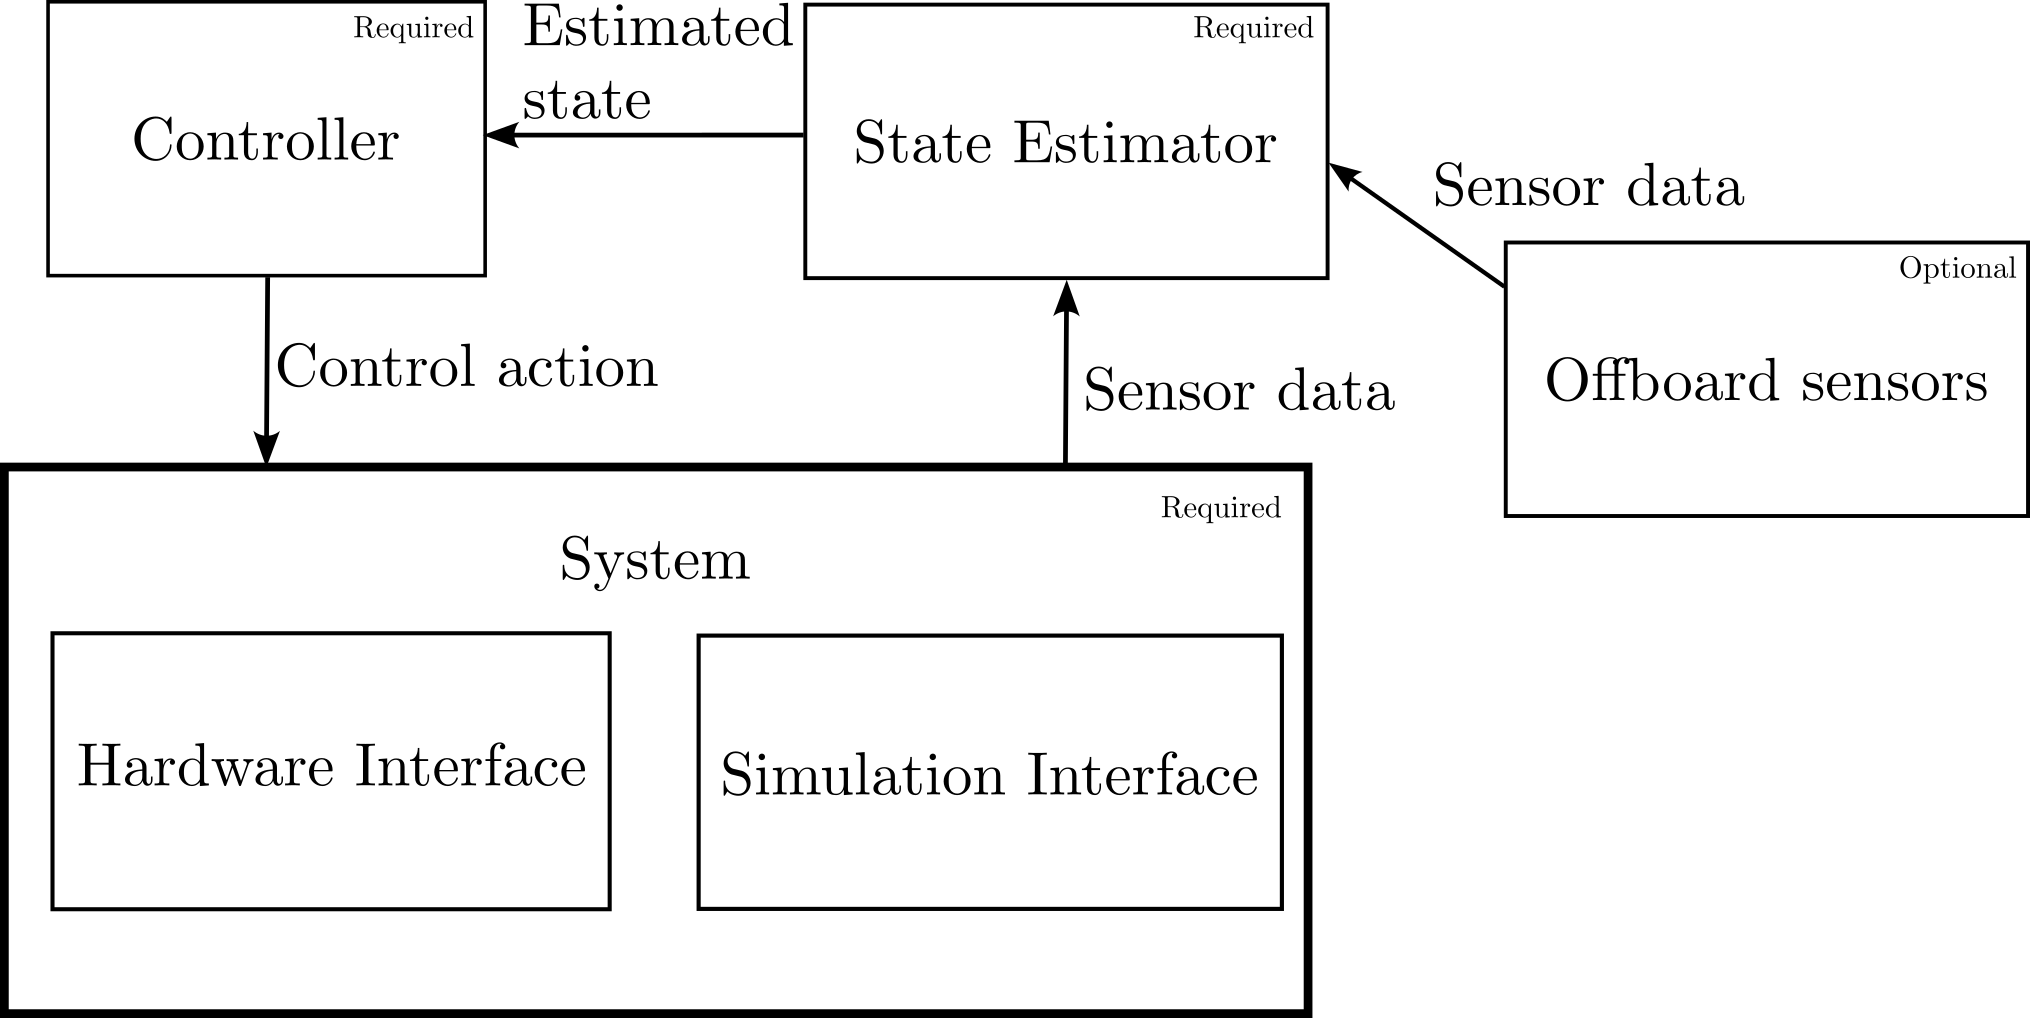
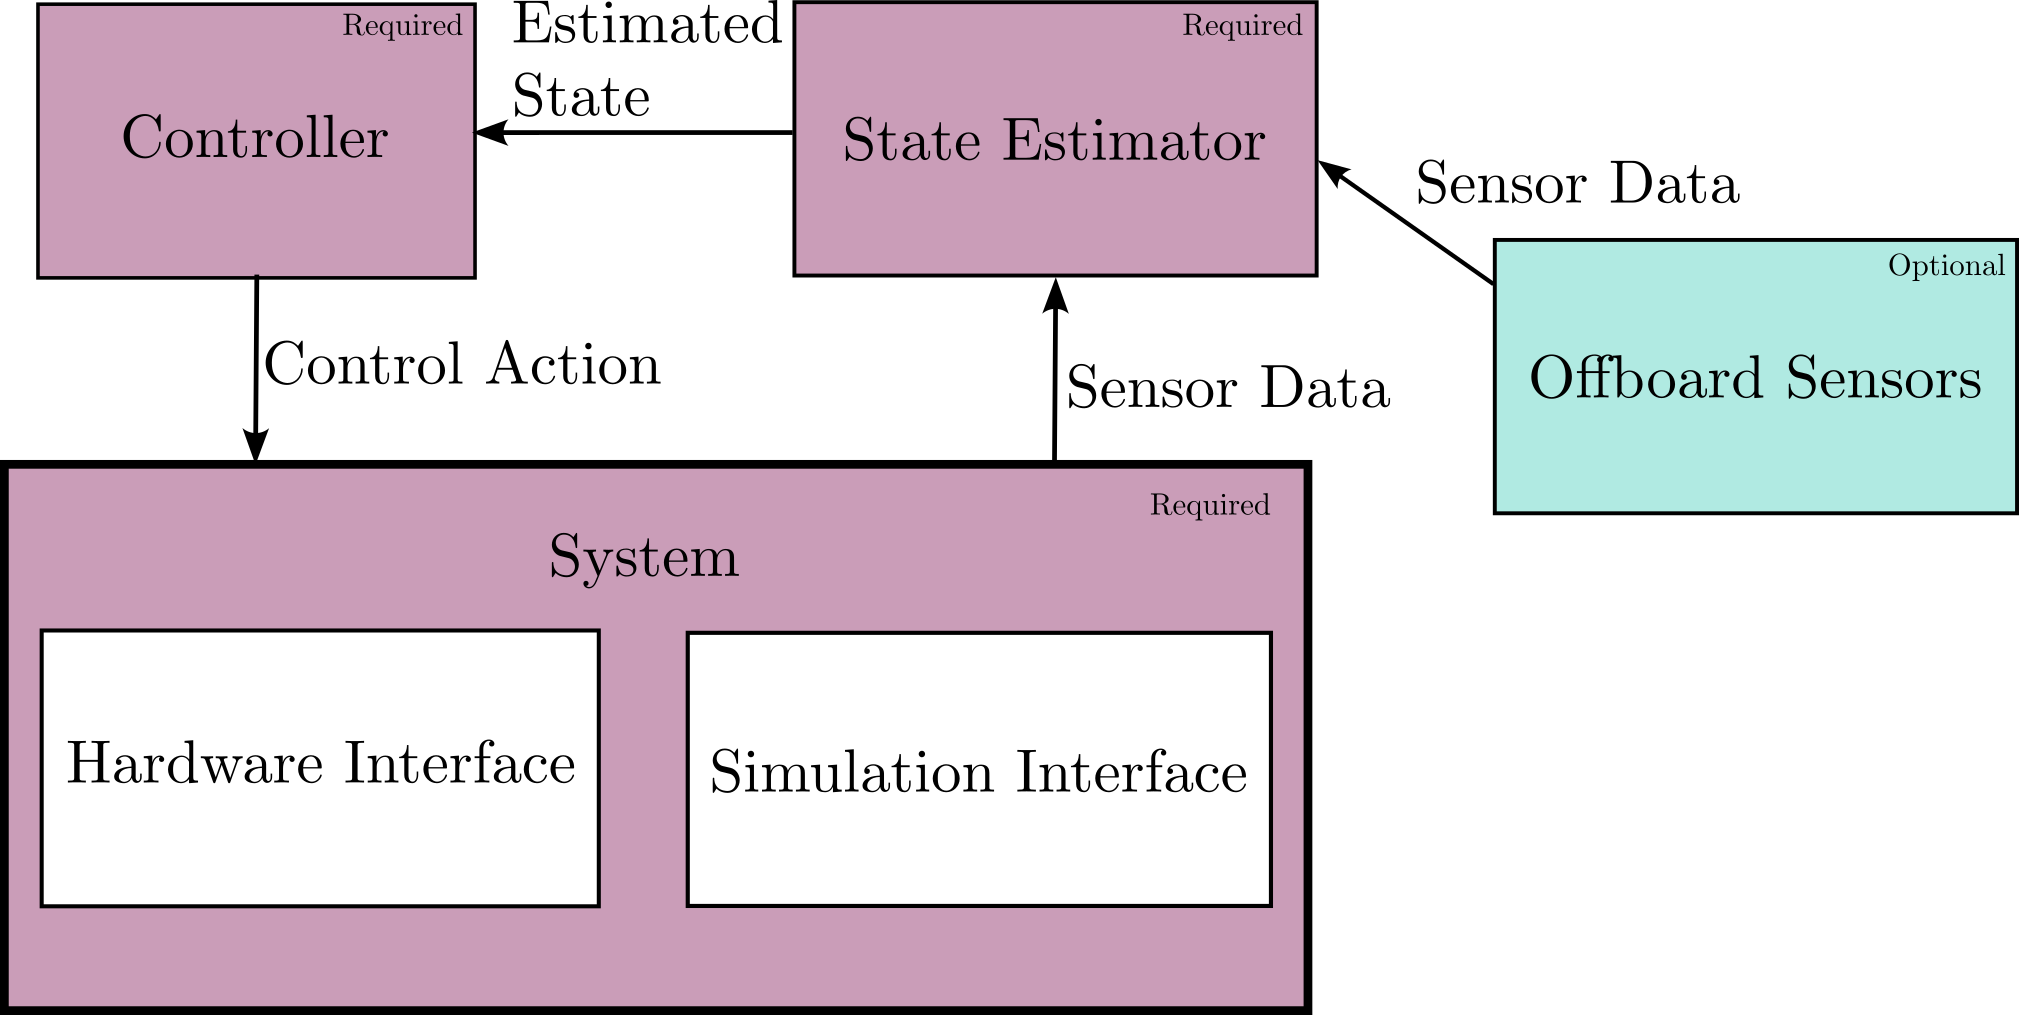
updated the docs: spelling, figures, etc...

diff --git a/docs/source/obelisk_api.md b/docs/source/obelisk_api.md
@@ -1,5 +1,5 @@
 # Obelisk API
-The Obelisk API defines a consistent set of interfaces to modularize the development of robotics stacks. At the core of Obelisk is ROS2, which provides a Publish-Subscribe (or Pub-Sub) interface for heterogenous nodes to interact with each other. Obelisk provides unified interfaces to simulators, hardware, state estimators, controllers, and other utilities like visualization and logging. Obelisk provides libraries written natively in both C++ and Python that allow you to easily interface with the Obelisk ecosystem. It should be noted that Obelisk is designed to make robotics control system development easier, but if a desired feature is not natively supported, Obelisk is easily extendible! It is possible to interface with non-Obelisk ROS2 systems from the Obelisk ecosystem, but this will be significantly more effort than staying in the Obelisk ecosystem. Obelisk is open source, so if you want a feature added, feel free to submit a pull request on [Github](https://github.com/Caltech-AMBER/obelisk).
+The Obelisk API defines a consistent set of interfaces to modularize the development of robotics stacks. At the core of Obelisk is ROS2, which provides a Publish-Subscribe (or Pub-Sub) interface for heterogenous nodes to interact with each other. Obelisk provides unified interfaces to simulators, hardware, state estimators, controllers, and other utilities like visualization and logging. Obelisk provides libraries written natively in both C++ and Python that allow you to easily interface with the Obelisk ecosystem. It should be noted that Obelisk is designed to make robotics control system development easier, but if a desired feature is not natively supported, Obelisk is easily extendable! It is possible to interface with non-Obelisk ROS2 systems from the Obelisk ecosystem, but this will be significantly more effort than staying in the Obelisk ecosystem. Obelisk is open source, so if you want a feature added, feel free to submit a pull request on [Github](https://github.com/Caltech-AMBER/obelisk).
 
 Below we will cover all the concepts needed to work with Obelisk, including all relevant parts of the ROS2 ecosystem.
 
@@ -17,11 +17,11 @@ The block diagram is as follows:
 
 ![block-diagram](images/block-diagram.png)
 
-Further, we define basic *required* connections between these blocks as shown in the block diagram. For example, the state estimator always receives information from the System, and outputs an estimate to the Controller. When writing a robotics stack in Obelisk these connections are *always* present. These connections are a minimal requirement, and more can always be added. For example, the Controller may output multiple control actions rather than a single one.
+The blocks in pink are *required*, so every system using Obelisk must at least include one Controller, one State Estimator, and one System, but additional blocks may be added. Further, each of these blocks expects to be connected to each other in this configuration. For example, the state estimator always receives information from the System, and outputs an estimate to the Controller. When writing a robotics stack in Obelisk these connections are *always* present. These connections are a minimal requirement, and more can always be added. For example, the Controller may outputmore than just the control action.
 
-There is a fundamental difference between the System block and every other block. The System block is what is being controlled, and thus is not normally implemented by the user. Obelisk provides implementations of the System block, while for every other block we provide a class interface that the user will need to implement.
+For the Controller, State Estimator, and Offboard Sensors, Obelisk provides a set of abstract class interfaces. You must implement certain abstract functions in these classes, but much of the boilerplate code is handled for you.
 
-The System block may either be the hardware interface or the simulation interface. For each simulator there is a single simulation interface that supports all robots, and currently there is only one supported simulator: [Mujoco](https://mujoco.org/). On the other hand, for each robot there is a specific hardware interface. Each robot that is in Obelisk ecosystem will need a custom hardware interface written for it, but once the is written anyone using Obelisk can easily interface with the robot.
+On the other hand, the System block is different from every other block: the System block is what is being controlled, and thus is not normally implemented by the user. The System block may either be the hardware interface or the simulation interface, both of which are provided by Obelisk. For each simulator there is a single simulation interface that supports all robots, and currently there is only one supported simulator: [Mujoco](https://mujoco.org/). On the other hand, for each robot there is a specific hardware interface. Each robot that is in Obelisk ecosystem will need a custom hardware interface written for it, but once the is written anyone using Obelisk can easily interface with the robot.
 
 ## Obelisk Nodes
 Each block in the above figure is comprised by one or more Obelisk nodes. Obelisk nodes are specialized ROS2 nodes, so we will begin by describing ROS2 nodes.
